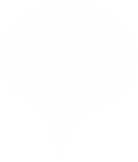
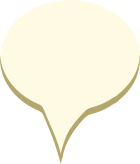
added new bubble

diff --git a/js/game.state.js b/js/game.state.js
@@ -1,7 +1,7 @@
 var rightSpotlight, leftSpotlight, middleSpotlight;
 var bubblePoints, bubbles, bubbleText, wordText;
 var game, game_scale;
-var style = { font: "48px Quenda", fill: "#ff0044", align: "center"};
+var style = { font: "48px Quenda", fill: "#2C264E", align: "center"};
 var	crowdFirst, crowdSecond, crowdThirdLeft, crowdThirdRight;
 
 
@@ -26,6 +26,8 @@ var gameState = {
     this.load.image('crowd-third-left','../assets/images/crowd_third_left.png');
     this.load.image('crowd-third-right','../assets/images/crowd_third_right.png');
 
+    this.load.image('rod','../assets/images/rod.png');
+
     //Bubble
     this.load.image('bubbles','../assets/images/bubble.png');
   },
@@ -41,7 +43,22 @@ var gameState = {
 
     this.game.world.setBounds(0, 0, game.width, game.height);
 
-
+    var rod_points = [
+    	{
+    		"x": 0,
+    		"y": 0,
+    		"anchor_x": 0,
+    		"anchor_y": 0,
+    		"mirror" : 0
+    	},
+    	{
+    		"x": game.width,
+    		"y": 0,
+    		"anchor_x": 0,
+    		"anchor_y": 0,
+    		"mirror" : 1
+    	}
+    ];
 
     leftSpotlight = game.add.sprite(0,0,'left-spotlight');
     leftSpotlight.scale.setTo(game_scale, game_scale);
@@ -56,34 +73,35 @@ var gameState = {
 
     crowdThirdLeft = game.add.sprite(-1,200*game_scale,'crowd-third-left');
     crowdThirdLeft.scale.setTo(game_scale, game_scale);
-    this.add.tween(crowdThirdLeft).to({ y: [250*game_scale,200*game_scale]},1000, 'Cubic.easeOut', true, 0).loop(true);
+    this.add.tween(crowdThirdLeft).to({ y: [250*game_scale,200*game_scale]},800, 'Cubic.easeOut', true, 0).loop(true);
 
 
     crowdThirdRight = game.add.sprite(game.width,200*game_scale,'crowd-third-right');
     crowdThirdRight.anchor.setTo(1,0);
     crowdThirdRight.scale.setTo(game_scale, game_scale);
-    this.add.tween(crowdThirdRight).to({ y: [250*game_scale,200*game_scale]},1000, 'Cubic.easeOut', true, 0).loop(true);
+    this.add.tween(crowdThirdRight).to({ y: [250*game_scale,200*game_scale]},800, 'Cubic.easeOut', true, 0).loop(true);
 
 	crowdSecond = game.add.sprite(game.width/2,200*game_scale,'crowd-second');
     crowdSecond.anchor.setTo(0.5,0);
     crowdSecond.scale.setTo(game_scale, game_scale);
-    this.add.tween(crowdSecond).to({ y: [250*game_scale,200*game_scale]},1200, 'Cubic.easeOut', true, 0).loop(true);
-
-    // crowdFirstLeft = game.add.sprite(-1,400*game_scale,'crowd-first-left');
-    // crowdFirstLeft.scale.setTo(game_scale, game_scale);
-    // this.add.tween(crowdFirstLeft).to({ y: [350*game_scale,400*game_scale]},1100, 'Cubic.easeOut', true, 0).loop(true);
-
-    // crowdFirstRight = game.add.sprite(game.width/2,400*game_scale,'crowd-first-right');
-    // crowdFirstRight.anchor.setTo(0.5,0);
-    // crowdFirstRight.scale.setTo(game_scale, game_scale);
-    // this.add.tween(crowdFirstRight).to({ y: [350*game_scale,400*game_scale]},1150, 'Cubic.easeOut', true, 0).loop(true);
+    this.add.tween(crowdSecond).to({ y: [250*game_scale,200*game_scale]},1000, 'Cubic.easeOut', true, 0).loop(true);
 
     crowdFirst = game.add.sprite(game.width/2,330*game_scale,'crowd-first');
     crowdFirst.anchor.setTo(0.5,0);
     crowdFirst.scale.setTo(game_scale, game_scale);
-    this.add.tween(crowdFirst).to({ y: [380*game_scale,330*game_scale]},1050, 'Cubic.easeOut', true, 0).loop(true);
+    this.add.tween(crowdFirst).to({ y: [380*game_scale,330*game_scale]},850, 'Cubic.easeOut', true, 0).loop(true);
 
+    for (var i = 0; i < rod_points.length; i++) {
+    	var rod = game.add.sprite(rod_points[i].x, rod_points[i].y,'rod');
+    	rod.anchor.setTo(rod_points[i].anchor_x,rod_points[i].anchor_y);
+    	if (rod_points[i].mirror == 1) {
+    		rod.scale.setTo(-game_scale, game_scale);
+    	}else {
+    		rod.scale.setTo(game_scale, game_scale);
+    	}
+    }
 
+    
 
     bubblePoints = {
     	'x' : [165,275,514,638,824,1091,1281,1501,1610,1710],
@@ -102,7 +120,7 @@ var gameState = {
   		rightSpotlight.tint = Math.random() * 0xffffff;
   		middleSpotlight.tint = Math.random() * 0xffffff;
       
-  	},1500);
+  	},400);
     //Score
     var multiplerstyle = { font: "20px Quenda", fill: "#FFD700", align: "center"};
     var multiplerText = game.add.text(0,0,this.alphaJuice.multipler+" X ",multiplerstyle);
